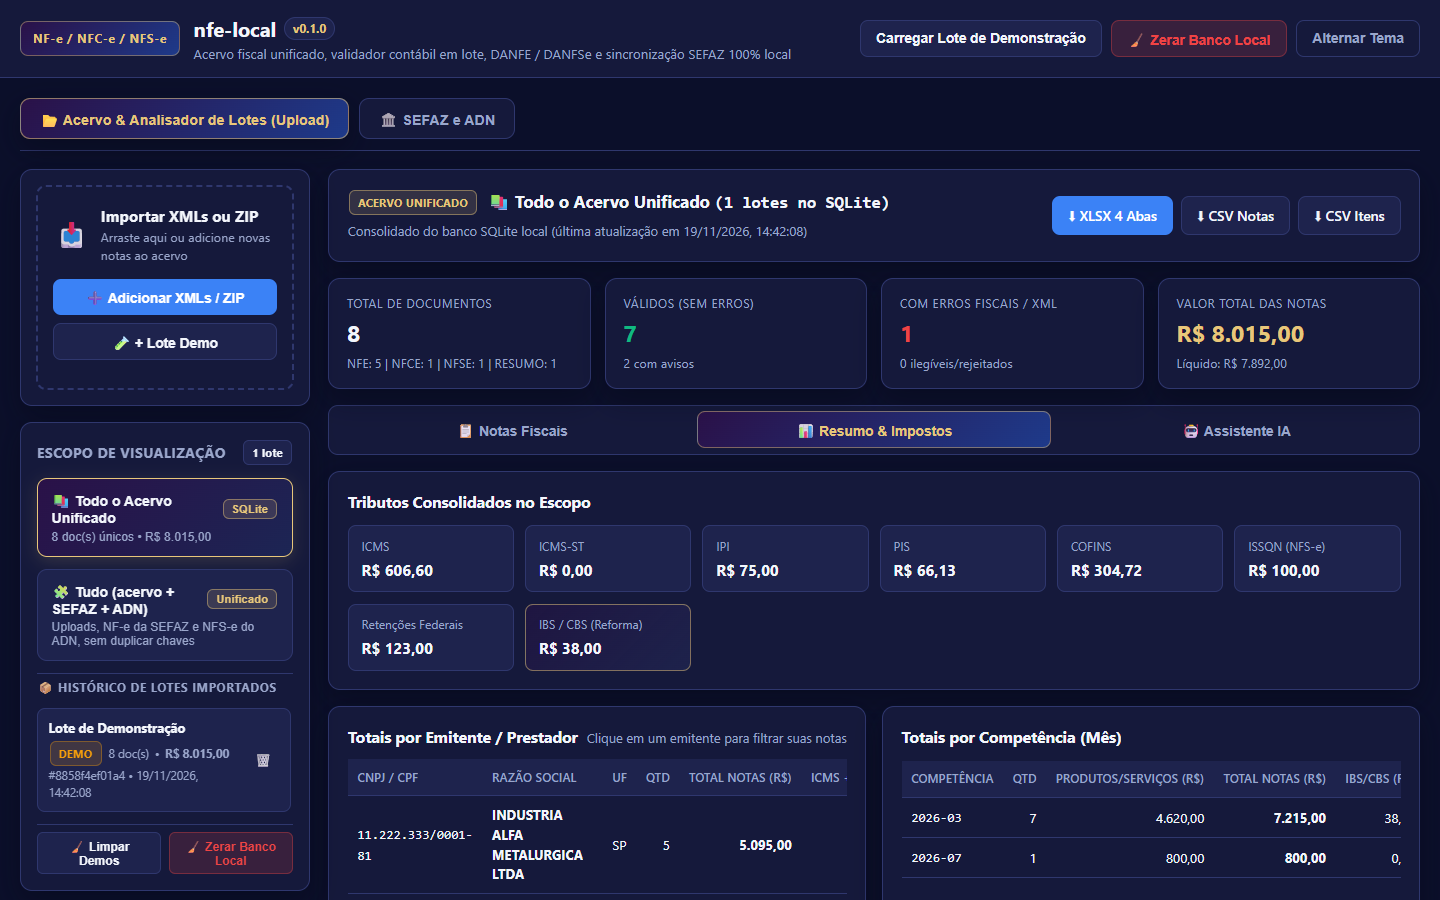
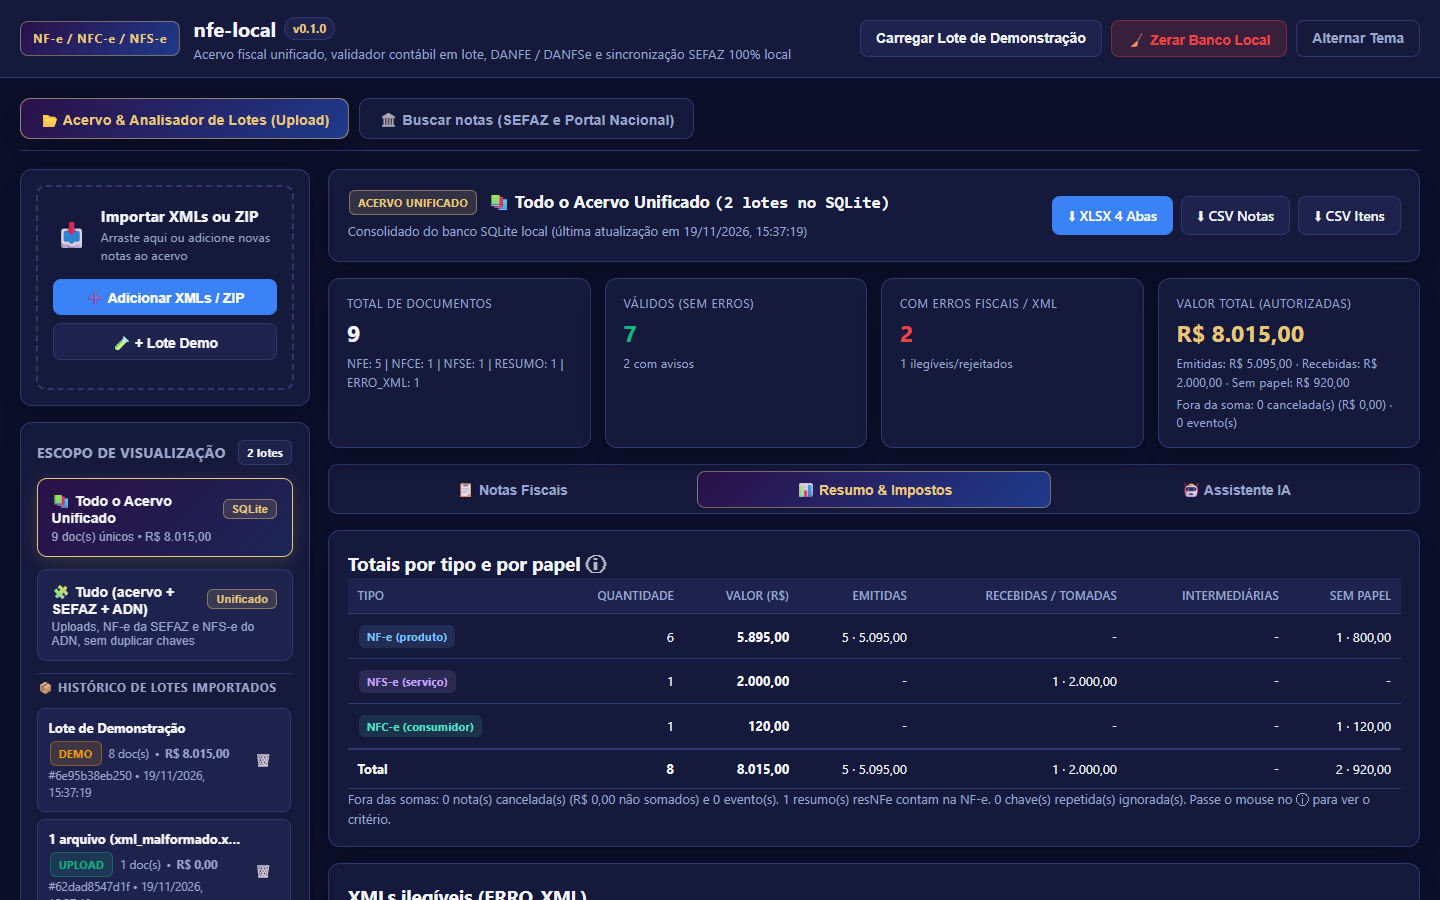
docs(prints): regenerate screenshots with the new labels, per-type cards and totals panel

diff --git a/scripts/capturar_prints.py b/scripts/capturar_prints.py
@@ -123,6 +123,11 @@ def _semear(base: str) -> None:
     salvar_certificado_local(pfx, SENHA_SINTETICA, uf_autor="35", ambiente=2)
 
     with httpx.Client(base_url=base, timeout=30) as cli:
+        # XML sintético quebrado (fixture) para mostrar a lista de ilegíveis no resumo
+        quebrado = (RAIZ / "tests" / "fixtures" / "xml_malformado.xml").read_bytes()
+        cli.post(
+            "/api/lote", files=[("files", ("xml_malformado.xml", quebrado, "application/xml"))]
+        )
         for rota in ("/api/lote/demo", "/api/recebidas/demo"):
             if cli.post(rota).status_code != 200:
                 raise SystemExit(f"Falha ao carregar a demonstração ({rota}).")
